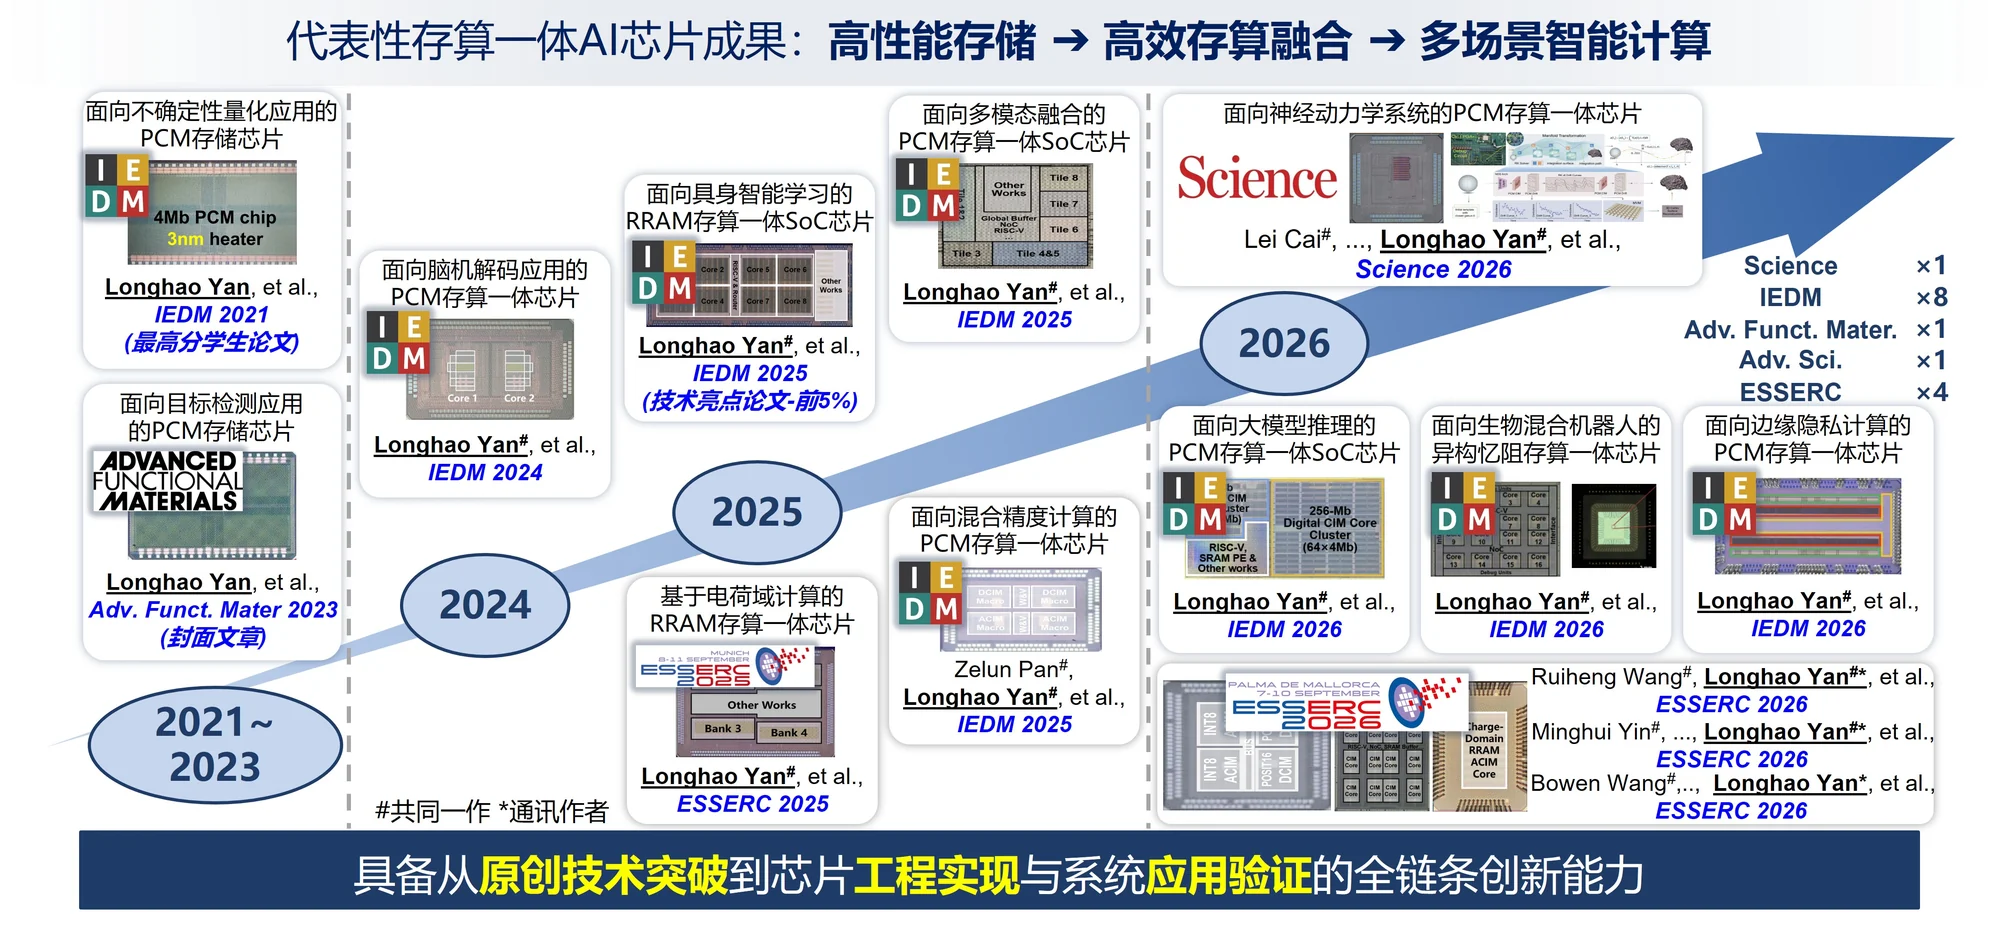
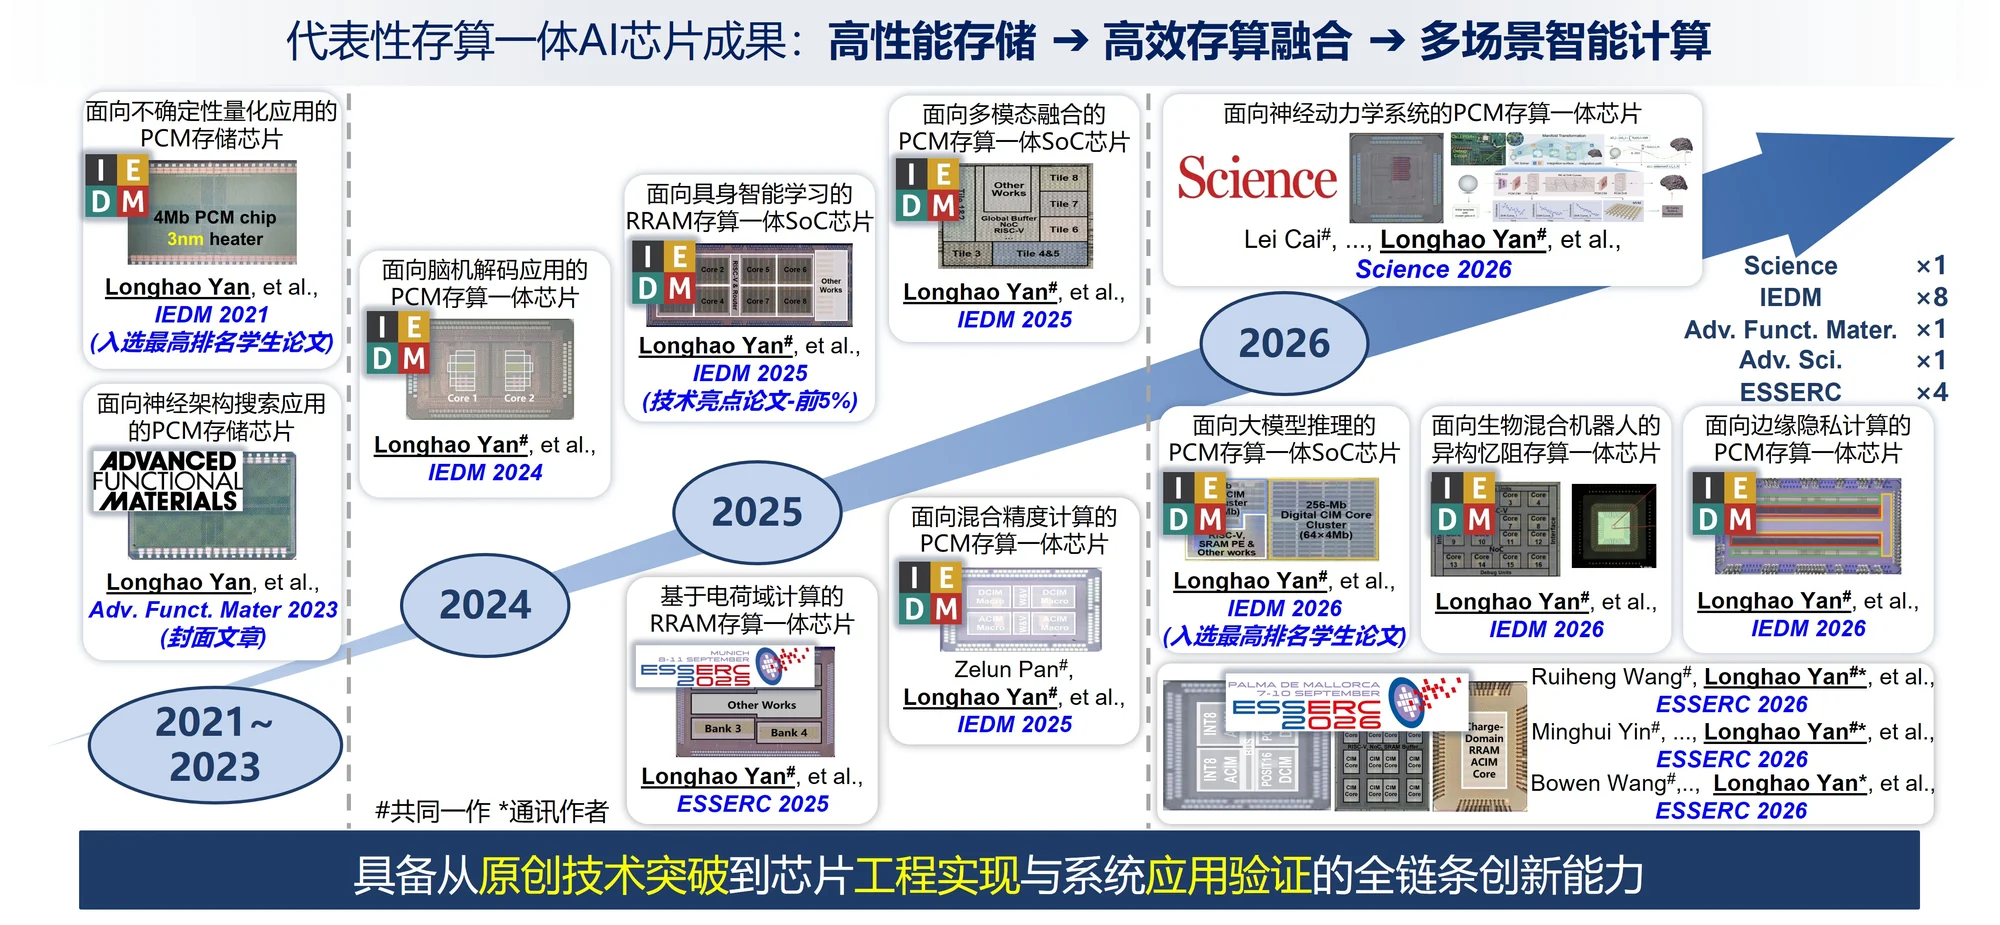
Refresh progress figure and IEDM 2026 top-ranked recognition

diff --git a/index.html b/index.html
@@ -31,7 +31,7 @@
   <link rel="alternate" hreflang="en" href="https://yanlonghao.com/?lang=en">
   <link rel="alternate" hreflang="x-default" href="https://yanlonghao.com/">
   <link rel="icon" href="assets/images/favicon.svg" type="image/svg+xml">
-  <link rel="stylesheet" href="assets/css/styles.css?v=66">
+  <link rel="stylesheet" href="assets/css/styles.css?v=67">
   <title>Longhao Yan | 闫龙皞</title>
   <script type="application/ld+json">
     {
@@ -151,12 +151,12 @@
           </div>
           <figure class="about-progress">
             <picture>
-              <source media="(max-width: 640px)" srcset="assets/images/about/research-progress-1000.webp?v=5">
-              <img data-about-progress-image src="assets/images/about/research-progress.webp?v=5" alt="忆阻存算一体 AI 芯片研究进展" data-i18n-alt="aboutProgressAlt" width="2000" height="925" loading="eager" fetchpriority="high" decoding="async">
+              <source media="(max-width: 640px)" srcset="assets/images/about/research-progress-1000.webp?v=6">
+              <img data-about-progress-image src="assets/images/about/research-progress.webp?v=6" alt="忆阻存算一体 AI 芯片研究进展" data-i18n-alt="aboutProgressAlt" width="2000" height="925" loading="eager" fetchpriority="high" decoding="async">
             </picture>
           </figure>
           <div class="about-more" id="about-more" hidden>
-            <p data-i18n="aboutParagraph2">相关研究成果持续获得学术界和工业界认可。本人在微电子领域旗舰会议 IEDM 上以第一作者（含共同）发表或已接收 8 篇论文，获选 Top Ranked Student Paper（IEDM 2021）、Technical Highlight（IEDM 2025）和 Best Paper Award Finalist（ICTA 2025）。《科学》杂志高度评价神经动力学工作“代表了一种物理驱动计算的理念转变”（Science 2026）。相关合作工作入选智源人工智能研究院发布的“2020 年人工智能十大进展”（IEDM 2020），被《Nature Reviews Electrical Engineering》权威综述列为存内计算硬件感知神经架构搜索的代表性框架（Sci. China Inf. Sci. 2021），被 IBM Research &amp; IEEE Fellow 的 Abu Sebastian 教授列为存内动力学计算的典型技术案例（Adv. Mater. 2022）。与华为合作研究成果获得华为计算产品线最佳技术合作奖（MICRO 2024）。</p>
+            <p data-i18n="aboutParagraph2">相关研究成果持续获得学术界和工业界认可。本人在微电子领域旗舰会议 IEDM 上以第一作者（含共同）发表或已接收 8 篇论文，获选 Top Ranked Student Paper（IEDM 2021、2026）、Technical Highlight（IEDM 2025）和 Best Paper Award Finalist（ICTA 2025）。《科学》杂志高度评价神经动力学工作“代表了一种物理驱动计算的理念转变”（Science 2026）。相关合作工作入选智源人工智能研究院发布的“2020 年人工智能十大进展”（IEDM 2020），被《Nature Reviews Electrical Engineering》权威综述列为存内计算硬件感知神经架构搜索的代表性框架（Sci. China Inf. Sci. 2021），被 IBM Research &amp; IEEE Fellow 的 Abu Sebastian 教授列为存内动力学计算的典型技术案例（Adv. Mater. 2022）。与华为合作研究成果获得华为计算产品线最佳技术合作奖（MICRO 2024）。</p>
           </div>
           <button class="about-toggle" type="button" aria-expanded="false" aria-controls="about-more">
             <span data-i18n="aboutMore">展开更多</span>
@@ -270,7 +270,7 @@
             <p><strong>Longhao Yan</strong>, Qingyu Wu, Xi Li, et al.</p>
           </li>
           <li data-paper="iedm-2026-llm" data-category="iedm">
-            <div class="pub-meta"><span>IEEE International Electron Devices Meeting (IEDM) · 2026</span><span class="role" data-i18n="roleFirst">第一作者</span></div>
+            <div class="pub-meta"><span>IEEE International Electron Devices Meeting (IEDM) · 2026</span><span class="role" data-i18n="roleFirst">第一作者</span><span class="role accent">Top Ranked Student Paper</span></div>
             <h3>A 288-Mb PCM Compute-in-Memory Processor with Drift-Resilient Tri-Tier KV-Cache Computing and Low-Stress Multilevel Programming for Edge LLM Inference</h3>
             <p><strong>Longhao Yan#</strong>, Xiangyuan Xue#, Yihang Zhu, et al. · <span data-i18n="accepted">已接收</span></p>
           </li>
@@ -383,7 +383,7 @@
                 </li>
                 <li data-archive-entry data-type="conference" data-role="first">
                   <article>
-                    <div class="archive-meta"><span>IEEE International Electron Devices Meeting (IEDM)</span><span class="role" data-i18n="roleFirst">第一作者</span></div>
+                    <div class="archive-meta"><span>IEEE International Electron Devices Meeting (IEDM)</span><span class="role accent">Top Ranked Student Paper</span><span class="role" data-i18n="roleFirst">第一作者</span></div>
                     <h5>A 288-Mb PCM Compute-in-Memory Processor with Drift-Resilient Tri-Tier KV-Cache Computing and Low-Stress Multilevel Programming for Edge LLM Inference</h5>
                     <p><strong>Longhao Yan#</strong>, Xiangyuan Xue#, Yihang Zhu, Xi Li, Chenchen Xie, Zhiyuan Li, Minghui Yin, Bowen Wang, Zelun Pan, Zeyao Tang, Yaoyu Tao, Zhitang Song*, Yuchao Yang* · <span data-i18n="accepted">已接收</span></p>
                   </article>
@@ -653,7 +653,7 @@
                 <img src="assets/images/chips/chip-11.webp?v=1" alt="面向大语言模型推理的忆阻存算一体芯片" data-i18n-alt="chip11Title" width="1083" height="552" loading="lazy" decoding="async">
               </picture>
             </div>
-            <figcaption><span class="showcase-index">C02</span><div><h3 data-i18n="chip11Title">面向大语言模型推理的忆阻存算一体芯片</h3><p><span class="showcase-source">IEDM · 2026</span><span>288 Mb</span><span data-i18n="levelSoC">SoC 级</span></p></div></figcaption>
+            <figcaption><span class="showcase-index">C02</span><div><h3 data-i18n="chip11Title">面向大语言模型推理的忆阻存算一体芯片</h3><p><span class="showcase-source">IEDM · 2026</span><span class="showcase-source showcase-source-featured">Top Ranked Student Paper</span><span>288 Mb</span><span data-i18n="levelSoC">SoC 级</span></p></div></figcaption>
           </figure>
           <figure class="showcase-card" data-showcase-item="chips">
             <div class="showcase-media">
@@ -771,7 +771,7 @@
                 <img src="assets/images/applications/application-09.webp?v=1" alt="面向端侧大模型推理的多卡忆阻存算系统" data-i18n-alt="application09Title" width="1200" height="562" loading="lazy" decoding="async">
               </picture>
             </div>
-            <figcaption><span class="showcase-index">A02</span><div><h3 data-i18n="application09Title">面向端侧大模型推理的多卡忆阻存算系统</h3><p><span class="showcase-source">IEDM · 2026</span></p></div></figcaption>
+            <figcaption><span class="showcase-index">A02</span><div><h3 data-i18n="application09Title">面向端侧大模型推理的多卡忆阻存算系统</h3><p><span class="showcase-source">IEDM · 2026</span><span class="showcase-source showcase-source-featured">Top Ranked Student Paper</span></p></div></figcaption>
           </figure>
           <figure class="showcase-card is-application" data-showcase-item="applications" hidden>
             <div class="showcase-media">
@@ -909,6 +909,7 @@
             <p class="section-kicker">RECOGNITION</p>
             <h2 data-i18n="recognitionTitle">学术认可</h2>
             <ul class="honor-list">
+              <li><strong class="honor-title">Top Ranked Student Paper</strong><span class="honor-source">IEEE International Electron Devices Meeting (IEDM) 2026</span></li>
               <li><strong class="honor-title">Technical Highlight</strong><span class="honor-source">IEEE International Electron Devices Meeting (IEDM) 2025</span></li>
               <li><strong class="honor-title">Top Ranked Student Paper</strong><span class="honor-source">IEEE International Electron Devices Meeting (IEDM) 2021</span></li>
               <li><strong class="honor-title">Best Paper Award Finalist</strong><span class="honor-source">IEEE International Conference on Integrated Circuits, Technologies and Applications (ICTA) 2025</span></li>
@@ -939,7 +940,7 @@
       <p data-i18n="footerTagline">Built for research, collaboration and open exchange.</p>
     </div>
   </footer>
-  <script src="assets/js/site.js?v=42" defer></script>
+  <script src="assets/js/site.js?v=43" defer></script>
   <script src="assets/js/publications.js?v=36" defer></script>
 </body>
 </html>

diff --git a/assets/js/site.js b/assets/js/site.js
@@ -32,7 +32,7 @@ const translations = {
     aboutParagraph1: "本人长期围绕高能效存算一体芯片开展系统研究，具备从器件工艺、阵列集成、芯片架构到算法应用的交叉研究能力。",
     aboutHighlights: "研究成果包括国际顶尖期刊与会议论文 30 篇，其中以第一作者或通讯作者（含共同）身份发表 20 篇，包括 Science（IF=47.3）、IEDM（8 篇一作）、Advanced Functional Materials（IF=19.9，封面）、Advanced Science（IF=14.1）、ESSERC（4 篇）、EDTM（3 篇）等；合作成果包括 Nature Electronics（IF=40.9）、Nature Communications（IF=15.7）、Advanced Materials（IF=26.8）等。",
     aboutProjects: "主持国家自然科学基金青年基金 C 类、国家自然科学基金联合基金重点项目（课题）和中国博士后科学基金面上项目等科研任务，参与国家重点研发计划、基金委重大研究计划集成项目、新基石研究员项目，以及多项与华为、国家电网、中芯国际和阿里巴巴达摩院等合作应用项目。",
-    aboutParagraph2: "相关研究成果持续获得学术界和工业界认可。本人在微电子领域旗舰会议 IEDM 上以第一作者（含共同）发表或已接收 8 篇论文，获选 Top Ranked Student Paper（IEDM 2021）、Technical Highlight（IEDM 2025）和 Best Paper Award Finalist（ICTA 2025）。《科学》杂志高度评价神经动力学工作“代表了一种物理驱动计算的理念转变”（Science 2026）。相关合作工作入选智源人工智能研究院发布的“2020 年人工智能十大进展”（IEDM 2020），被《Nature Reviews Electrical Engineering》权威综述列为存内计算硬件感知神经架构搜索的代表性框架（Sci. China Inf. Sci. 2021），被 IBM Research & IEEE Fellow 的 Abu Sebastian 教授列为存内动力学计算的典型技术案例（Adv. Mater. 2022）。与华为合作研究成果获得华为计算产品线最佳技术合作奖（MICRO 2024）。",
+    aboutParagraph2: "相关研究成果持续获得学术界和工业界认可。本人在微电子领域旗舰会议 IEDM 上以第一作者（含共同）发表或已接收 8 篇论文，获选 Top Ranked Student Paper（IEDM 2021、2026）、Technical Highlight（IEDM 2025）和 Best Paper Award Finalist（ICTA 2025）。《科学》杂志高度评价神经动力学工作“代表了一种物理驱动计算的理念转变”（Science 2026）。相关合作工作入选智源人工智能研究院发布的“2020 年人工智能十大进展”（IEDM 2020），被《Nature Reviews Electrical Engineering》权威综述列为存内计算硬件感知神经架构搜索的代表性框架（Sci. China Inf. Sci. 2021），被 IBM Research & IEEE Fellow 的 Abu Sebastian 教授列为存内动力学计算的典型技术案例（Adv. Mater. 2022）。与华为合作研究成果获得华为计算产品线最佳技术合作奖（MICRO 2024）。",
     aboutProgressAlt: "忆阻存算一体 AI 芯片研究进展",
     aboutMore: "展开更多",
     aboutLess: "收起内容",
@@ -178,7 +178,7 @@ const translations = {
     aboutParagraph1: "I conduct systematic research on energy-efficient compute-in-memory chips, with cross-disciplinary expertise spanning device technology, array integration, chip architecture, and algorithms.",
     aboutHighlights: "My research includes 30 papers in leading journals and conferences, with 20 as first, co-first, or corresponding author, including Science (IF 47.3), eight first- or co-first-author IEDM papers, Advanced Functional Materials (IF 19.9, cover article), Advanced Science (IF 14.1), four ESSERC papers, and three EDTM papers. Collaborative work has appeared in Nature Electronics (IF 40.9), Nature Communications (IF 15.7), and Advanced Materials (IF 26.8).",
     aboutProjects: "I lead projects supported by the National Natural Science Foundation of China and the China Postdoctoral Science Foundation, and have contributed to national research programs and industry collaborations with Huawei, State Grid, SMIC, and Alibaba DAMO Academy.",
-    aboutParagraph2: "My research has received recognition from both academia and industry. I have authored eight published or accepted first- or co-first-author papers at IEDM, including a Top Ranked Student Paper (IEDM 2021) and a Technical Highlight (IEDM 2025), and was a Best Paper Award Finalist at ICTA 2025. Science described our neural-dynamics work as representing a paradigm shift toward physically driven computing (Science 2026). Related collaborative work was selected among the Beijing Academy of Artificial Intelligence's Top 10 AI Advances of 2020 (IEDM 2020), identified by Nature Reviews Electrical Engineering as a representative framework for hardware-aware neural architecture search in in-memory computing (Sci. China Inf. Sci. 2021), and highlighted by IBM Research and IEEE Fellow Prof. Abu Sebastian as a representative case of in-memory dynamical computing (Adv. Mater. 2022). Our collaboration with Huawei received the Best Technical Collaboration Award from Huawei's Computing Product Line (MICRO 2024).",
+    aboutParagraph2: "My research has received recognition from both academia and industry. I have authored eight published or accepted first- or co-first-author papers at IEDM, including Top Ranked Student Papers (IEDM 2021 and 2026) and a Technical Highlight (IEDM 2025), and was a Best Paper Award Finalist at ICTA 2025. Science described our neural-dynamics work as representing a paradigm shift toward physically driven computing (Science 2026). Related collaborative work was selected among the Beijing Academy of Artificial Intelligence's Top 10 AI Advances of 2020 (IEDM 2020), identified by Nature Reviews Electrical Engineering as a representative framework for hardware-aware neural architecture search in in-memory computing (Sci. China Inf. Sci. 2021), and highlighted by IBM Research and IEEE Fellow Prof. Abu Sebastian as a representative case of in-memory dynamical computing (Adv. Mater. 2022). Our collaboration with Huawei received the Best Technical Collaboration Award from Huawei's Computing Product Line (MICRO 2024).",
     aboutProgressAlt: "Research progress in memristive compute-in-memory AI chips",
     aboutMore: "Read More",
     aboutLess: "Show Less",

diff --git a/assets/css/styles.css b/assets/css/styles.css
@@ -318,7 +318,7 @@ h2 { margin: 0; color: var(--navy-900); font-size: clamp(2rem, 4vw, 3.5rem); lin
 
 .about-more[hidden] { display: none; }
 
-.about-progress { margin: 26px 0 0; overflow: hidden; background: var(--white) url("../images/about/research-progress-preview.webp?v=3") center / cover no-repeat; border: 1px solid #b8c9d8; border-radius: 16px; box-shadow: 0 12px 28px rgba(6, 21, 42, 0.08); }
+.about-progress { margin: 26px 0 0; overflow: hidden; background: var(--white) url("../images/about/research-progress-preview.webp?v=4") center / cover no-repeat; border: 1px solid #b8c9d8; border-radius: 16px; box-shadow: 0 12px 28px rgba(6, 21, 42, 0.08); }
 
 .about-progress img { display: block; width: 100%; height: auto; }
 
